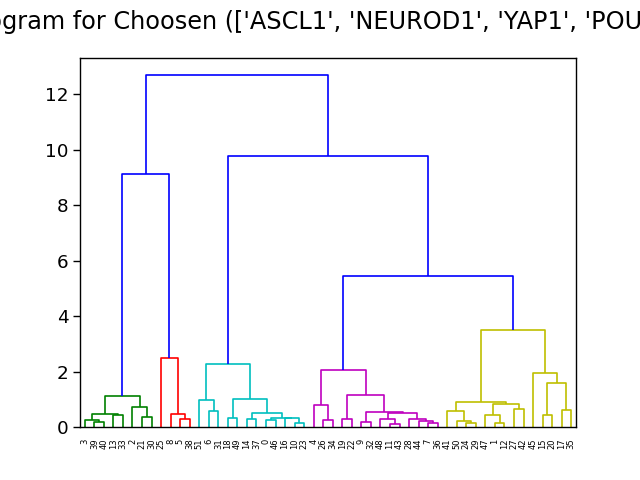
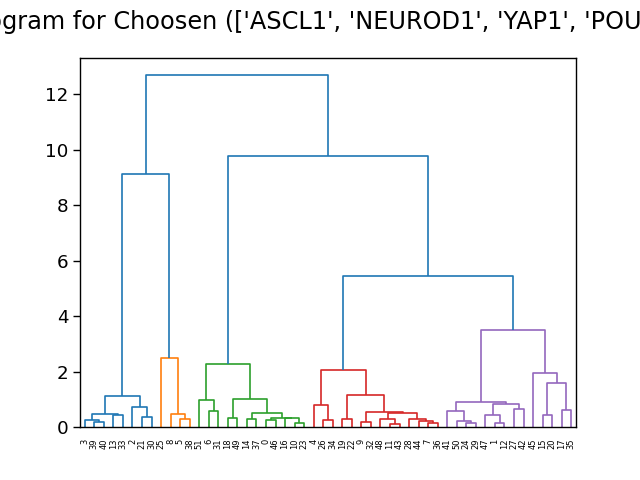
Updated Dendogram code

diff --git a/Funcs/Hierarcheal.py b/Funcs/Hierarcheal.py
@@ -2,6 +2,7 @@ import numpy as np
 import matplotlib.pyplot as plt
 import pandas as pd
 from sklearn import preprocessing
+import scipy.cluster.hierarchy as hierarchy
 from scipy.cluster.hierarchy import dendrogram,linkage,fcluster,cophenet
 import scipy.spatial.distance as ssd
 from sklearn.cluster import AgglomerativeClustering,MeanShift
@@ -30,10 +31,13 @@ def Hier_analysis(Data, title, folder, **kwargs):
     for node in Remove:
         Nodes.remove(node)
 
+    colors = ['#1f77b4', '#ff7f0e', '#2ca02c', '#d62728', '#9467bd', '#8c564b', '#e377c2', '#7f7f7f', '#bcbd22', '#17becf']
+
     data = Data.loc[Nodes]
     data = data.astype(float)
     scaled_data = preprocessing.scale(data.T)
     sns.set_context("paper", font_scale=1.5)
+    hierarchy.set_link_color_palette(colors)
     dend1 = dendrogram(linkage(scaled_data,method='ward'),
                        leaf_rotation=90,color_threshold=(5))
     plt.suptitle(title+": "+"Dendogram for Choosen ({}) Nodes".format(Nodes))
